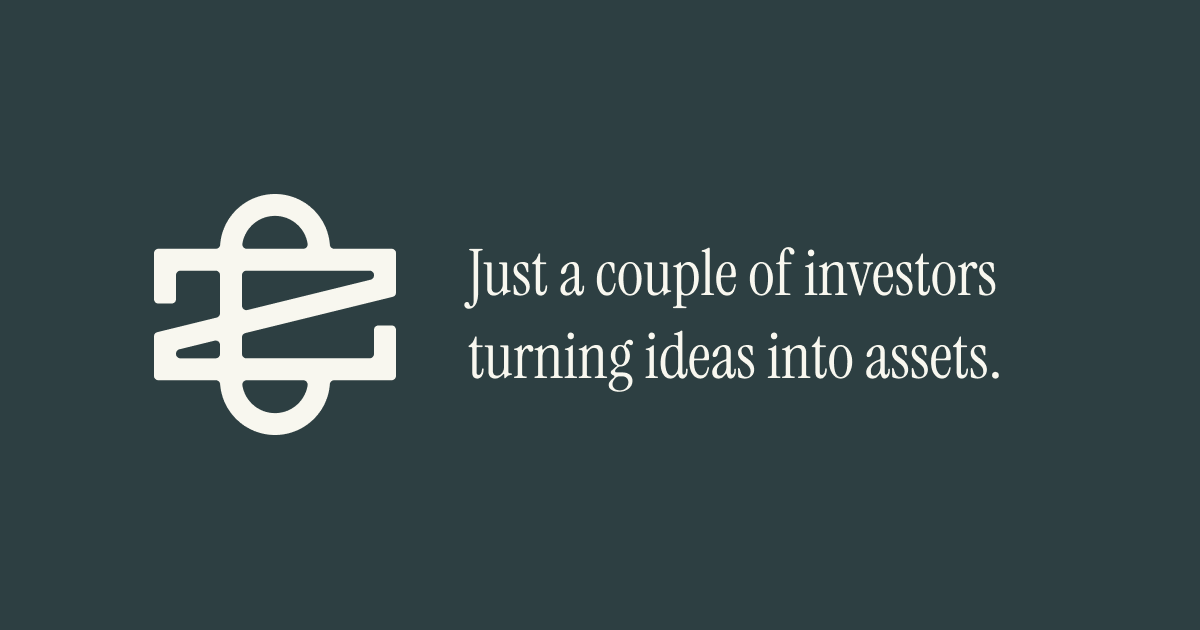
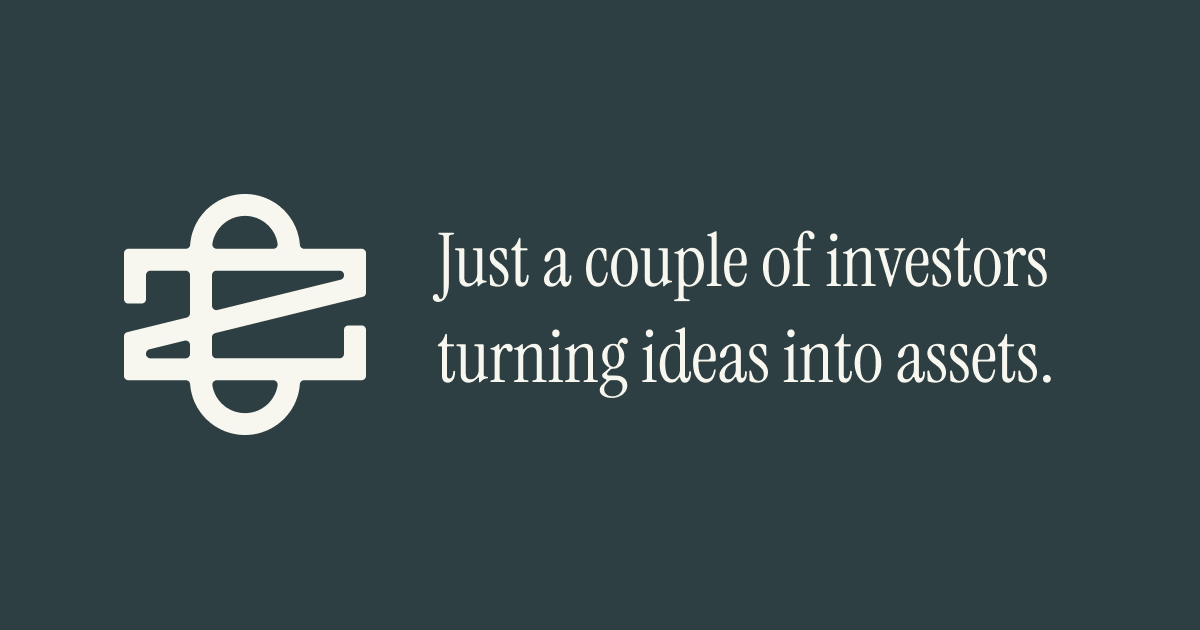
Refine responsive portfolio cards and update brand assets

diff --git a/app/globals.css b/app/globals.css
@@ -96,6 +96,7 @@ a { color: inherit; }
 .portfolio-panel::-webkit-scrollbar { display: none; }
 .portfolio-list { width: var(--right-column-width); margin-left: var(--right-center-gutter); padding: calc(var(--content-top) + 1px) 0 88px; }
 .company-card {
+  position: relative;
   display: grid;
   grid-template-columns: 128px minmax(0, 1fr);
   align-items: center;
@@ -122,20 +123,20 @@ a.company-card:hover, a.company-card:focus-visible {
   transform: translateY(-1px);
 }
 a.company-card:focus-visible { outline: 2px solid var(--color-brand); outline-offset: 3px; }
-.company-logo { display: flex; width: 128px; height: 106px; align-items: center; justify-content: center; }
-.company-logo img { display: block; max-width: 100px; max-height: 100px; object-fit: contain; }
-.company-copy { transform: translateY(-2px); }
+.company-logo { position: absolute; top: 50%; left: 32px; display: flex; width: 128px; height: 106px; align-items: center; justify-content: center; transform: translateY(-50%); }
+.company-logo img { display: block; max-width: 85px; max-height: 85px; object-fit: contain; }
+.company-copy { grid-column: 2; min-width: 0; transform: translateY(-2px); }
 .company-copy h2 { margin: 0; color: var(--color-ink); font-family: var(--font-serif); font-size: 24px; font-weight: 400; line-height: normal; letter-spacing: 0; }
 .company-copy p { margin: 11px 0 13px; color: var(--color-body); font-family: var(--font-sans); font-size: 15px; font-weight: 400; line-height: normal; letter-spacing: 0; }
-.company-meta { display: flex; align-items: center; gap: 6px; transform: translateY(8px); }
+.company-meta { display: flex; max-width: 100%; flex-wrap: wrap; align-items: center; gap: 6px; transform: translateY(8px); }
 .company-meta span {
   display: inline-flex;
   min-height: 24px;
   align-items: center;
-  padding: 3px 9px;
+  padding: 3px 10px;
   border: 1px solid var(--color-meta-border);
   border-radius: 8px;
-  font-size: 10px;
+  font-size: 11px;
   font-weight: 500;
   line-height: 1;
   letter-spacing: 0;
@@ -143,20 +144,21 @@ a.company-card:focus-visible { outline: 2px solid var(--color-brand); outline-of
   white-space: nowrap;
 }
 .company-card--placeholder { color: var(--color-placeholder); background: rgba(248, 247, 240, 0.32); border-style: dashed; box-shadow: none; cursor: default; }
-.company-card--placeholder .company-logo img { width: 86px; height: 86px; filter: grayscale(1); opacity: 0.42; }
+.company-card--placeholder .company-logo img { width: 73px; height: 73px; filter: grayscale(1); opacity: 0.42; }
 .company-card--placeholder .company-copy p { margin-bottom: 10px; }
 .placeholder-cta {
   display: inline-flex;
   min-height: 24px;
   align-items: center;
-  padding: 3px 9px;
+  padding: 3px 10px;
   color: var(--color-body);
   border: 1px solid var(--color-meta-border);
   border-radius: 8px;
   font-family: var(--font-sans);
-  font-size: 10px;
+  font-size: 11px;
   font-weight: 500;
   line-height: 1;
+  max-width: 100%;
   text-decoration: none;
   transition: background-color var(--transition-card), border-color var(--transition-card);
 }
@@ -164,19 +166,12 @@ a.company-card:focus-visible { outline: 2px solid var(--color-brand); outline-of
 .placeholder-cta:focus-visible { outline: 2px solid var(--color-brand); outline-offset: 3px; }
 .placeholder-mark { display: grid; width: 86px; height: 86px; place-items: center; border: 1px dashed currentColor; border-radius: 50%; font-family: var(--font-serif); font-size: 17px; }
 
-@media (max-width: 1080px) and (min-width: 861px) {
-  :root {
-    --left-center-gutter: 56px;
-    --right-center-gutter: 56px;
-    --left-column-width: calc(50vw - 96px);
-    --right-column-width: calc(50vw - 96px);
-  }
-  .company-card { grid-template-columns: 96px minmax(0, 1fr); column-gap: 20px; padding-right: 24px; padding-left: 24px; }
-  .company-logo { width: 96px; }
-  .manifesto { font-size: 34px; }
+@media (min-width: 1081px) {
+  .company-card { grid-template-columns: 92px minmax(0, 1fr); column-gap: 16px; padding-right: 16px; padding-left: 16px; }
+  .company-logo { left: 16px; width: 92px; }
 }
 
-@media (max-width: 860px) {
+@media (max-width: 1080px) {
   :root { --left-column-width: 100%; --right-column-width: 100%; --content-top: 0px; }
   .site-shell { height: auto; min-height: 100vh; overflow: visible; padding: 24px 24px 60px; background: var(--color-left-background); }
   .masthead { display: none; }
@@ -186,8 +181,8 @@ a.company-card:focus-visible { outline: 2px solid var(--color-brand); outline-of
   .zaks-content { position: static; width: min(100%, 540px); margin: 0 auto; }
   .identity-block { margin-top: 30px; }
   .portfolio-list { width: min(100%, 540px); margin: 50px auto 0; padding: 0; }
-  .company-card { grid-template-columns: 110px minmax(0, 1fr); column-gap: 24px; background: var(--color-on-dark); }
-  .company-logo { width: 110px; }
+  .company-card { grid-template-columns: 94px minmax(0, 1fr); column-gap: 18px; background: var(--color-on-dark); }
+  .company-logo { left: 32px; width: 94px; }
 }
 
 @media (max-width: 540px) {
@@ -196,9 +191,9 @@ a.company-card:focus-visible { outline: 2px solid var(--color-brand); outline-of
   .zaks-seal { width: 92px; height: 97px; flex-basis: 92px; margin-left: 0; }
   .manifesto { font-size: clamp(25px, 7.4vw, 34px); line-height: 1.29; letter-spacing: 0; }
   .signature { flex-wrap: wrap; gap: 8px 10px; margin-top: 12px; font-size: 14px; white-space: normal; }
-  .company-card { grid-template-columns: 78px minmax(0, 1fr); column-gap: 18px; min-height: 160px; padding: 24px 20px; }
-  .company-logo { width: 78px; height: 88px; }
-  .company-logo img { max-width: 76px; max-height: 82px; }
+  .company-card { grid-template-columns: 68px minmax(0, 1fr); column-gap: 14px; min-height: 160px; padding: 24px 20px; }
+  .company-logo { left: 20px; width: 68px; height: 88px; }
+  .company-logo img { max-width: 65px; max-height: 70px; }
   .company-copy p { font-size: 14px; }
 }
 